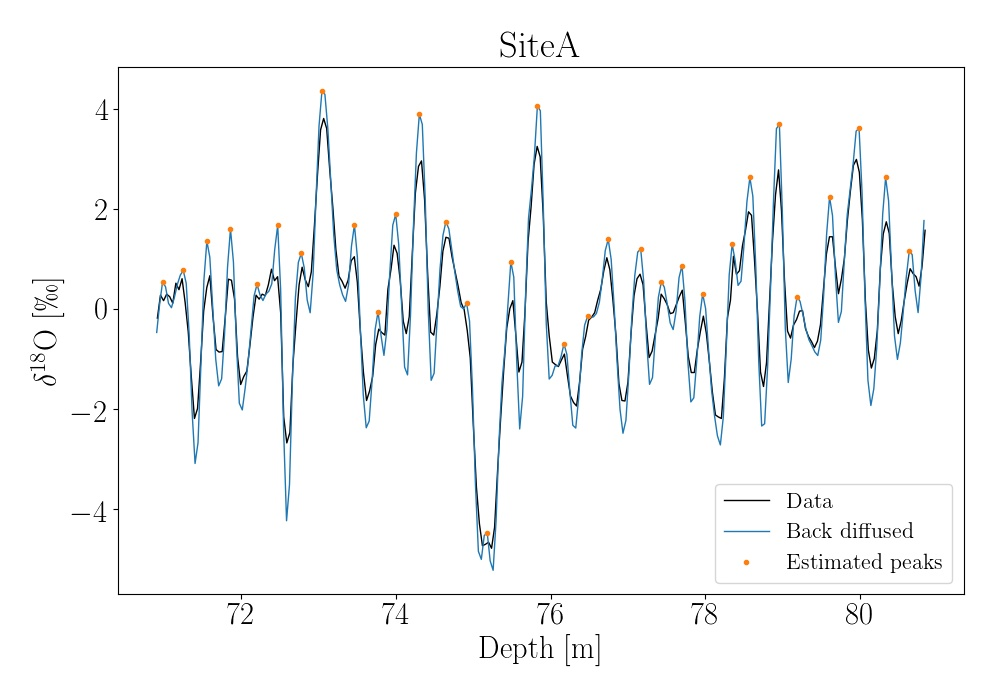
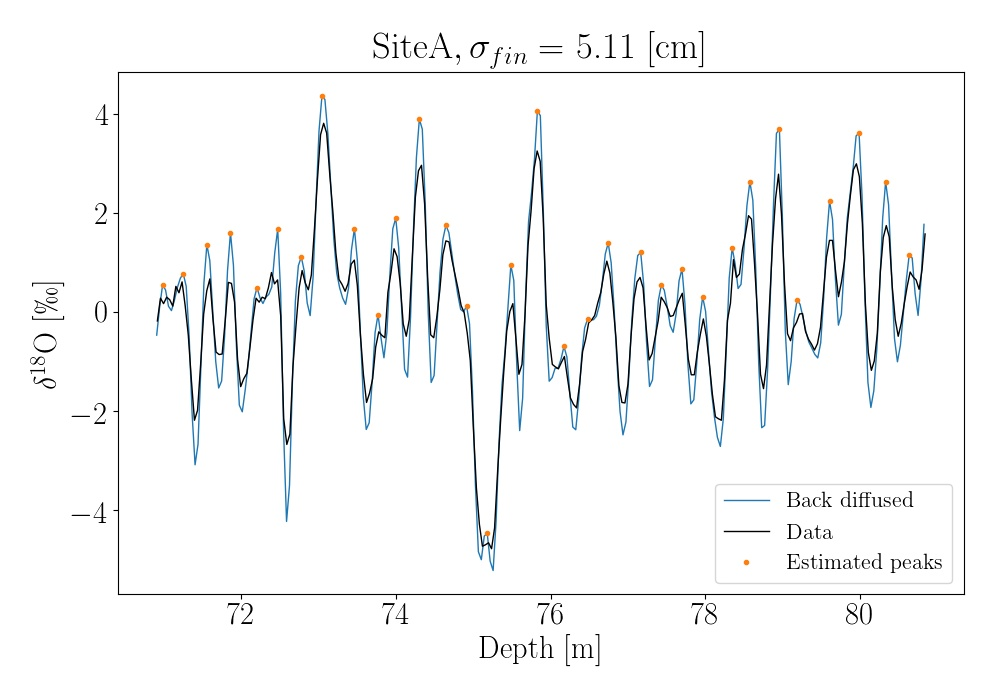
Updated LT peak figures.

diff --git a/BackDiffuse_LT.py b/BackDiffuse_LT.py
@@ -406,66 +406,66 @@ class BackDiffuse():
 
 
 
-#
-# mpl.rcParams['text.usetex'] = True
-# mpl.rcParams['text.latex.preamble'] = [
-#     r'\usepackage{textcomp}',
-#     r'\usepackage{wasysym}']
-# mpl.rcParams['mathtext.fontset'] = 'stix'
-# mpl.rcParams['font.size'] = 22
-# mpl.rcParams['font.family'] = 'STIXGeneral'
-#
-#
-#     # Core names of cores available
-# coreNames = ['Crete', 'SiteA', 'SiteB', 'SiteD', 'SiteE', 'SiteG']
-#
-#     # Selecting core name
-# coreName = 'Crete'
-#
-#     # Reading datafiles for specific core
-# d18OData = pd.read_csv('/home/thea/Documents/KUFysik/MesterTesen/Data/datasets/Alphabet_cores/Alphabetd18O/'+coreName+'_det.txt',',')
-# densities = pd.read_csv('/home/thea/Documents/KUFysik/MesterTesen/Data/datasets/Alphabet_cores/AlphabetDens/'+coreName+'DepthDens_w_Models.txt','\t')
-# diffLens = pd.read_csv('/home/thea/Documents/KUFysik/MesterTesen/Data/datasets/Alphabet_cores/AlphabetDiff/'+coreName+'_DepthDiff.txt','\t')
-# specsCores = pd.read_csv('/home/thea/Documents/KUFysik/MesterTesen/Data/CoreSpecs.txt',',')
-# specIdx = specsCores['CoreName'][specsCores['CoreName'] == coreName].index[0]
-#
-#     # Set the specs for depth of Laki and Tambora eruptions for core
-# specsCore = specsCores.iloc[specIdx]
-# dTamb = np.float64(specsCore['dTamb'])
-# dLaki = np.float64(specsCore['dLaki'])
-#
-#     # (FOR PLOTTING) Make array of only d18O data between Laki and Tamb
-# depth_LT = d18OData['depth'][(d18OData['depth'] >= dTamb) & (d18OData['depth'] <= dLaki)]
-# d18O_LT = d18OData['d18O'][(d18OData['depth'] >= dTamb) & (d18OData['depth'] <= dLaki)]
-#
-#     # Create instance of back diffusion
-# inst = BackDiffuse(coreName, d18OData, specsCores, dTamb, dLaki, 32, diffLenData=diffLens[['Depth','sigma_o18']], densData=densities)
-#
-#     # Make spectral estimate of diff len
-# diffLen = inst.spectralEstimate()
-#
-#     # Make model/empiric estimate of diff len
-# difflenEstHL = inst.diffLenEstimateHL()
-#
-#     # Compute final depth/d18O back diffused data w. final diff len and No. peaks
-# depth, data, diffLen, peaks = inst.backDiffused()
-#
-#     # Plot original data, back diffused data and peak estimations
-# fig, ax = plt.subplots(figsize=(10,7))
-# ax.plot(depth_LT, d18O_LT-np.mean(d18O_LT),color='k', lw=1, label = 'Data')
-# ax.plot(depth, data, lw=1, label='Back diffused')
-# ax.plot(depth[peaks], data[peaks],'.',lw=1, label='Estimated peaks')
-# ax.set(xlabel = 'Depth [m]', ylabel = '$\delta^{18}$O [\permil]', title=coreName)
-# ax.legend(fontsize=16)
-# fig.tight_layout()
-# fig.savefig(coreName + '_peaks.jpg')
-#
-#
-#     # Compute temperature estimate in [K]
-# depthT, dataT = inst.DeltaToTemp()
-#
-#     # Plot Temperature data in [C]
-# fig2, ax2 = plt.subplots(figsize=(10,7))
-# ax2.plot(depthT, dataT-273.15,color='k', lw=1)
-# ax2.set(xlabel = 'Depth [m]', ylabel = 'Temperature [C]', title=coreName)
-# fig2.savefig(coreName + '_Temp.jpg')
+
+mpl.rcParams['text.usetex'] = True
+mpl.rcParams['text.latex.preamble'] = [
+    r'\usepackage{textcomp}',
+    r'\usepackage{wasysym}']
+mpl.rcParams['mathtext.fontset'] = 'stix'
+mpl.rcParams['font.size'] = 22
+mpl.rcParams['font.family'] = 'STIXGeneral'
+
+
+    # Core names of cores available
+coreNames = ['Crete', 'SiteA', 'SiteB', 'SiteD', 'SiteE', 'SiteG']
+
+    # Selecting core name
+coreName = 'SiteG'
+
+    # Reading datafiles for specific core
+d18OData = pd.read_csv('/home/thea/Documents/KUFysik/MesterTesen/Data/datasets/Alphabet_cores/Alphabetd18O/'+coreName+'_det.txt',',')
+densities = pd.read_csv('/home/thea/Documents/KUFysik/MesterTesen/Data/datasets/Alphabet_cores/AlphabetDens/'+coreName+'DepthDens_w_Models.txt','\t')
+diffLens = pd.read_csv('/home/thea/Documents/KUFysik/MesterTesen/Data/datasets/Alphabet_cores/AlphabetDiff/'+coreName+'_DepthDiff.txt','\t')
+specsCores = pd.read_csv('/home/thea/Documents/KUFysik/MesterTesen/Data/CoreSpecs.txt',',')
+specIdx = specsCores['CoreName'][specsCores['CoreName'] == coreName].index[0]
+
+    # Set the specs for depth of Laki and Tambora eruptions for core
+specsCore = specsCores.iloc[specIdx]
+dTamb = np.float64(specsCore['dTamb'])
+dLaki = np.float64(specsCore['dLaki'])
+
+    # (FOR PLOTTING) Make array of only d18O data between Laki and Tamb
+depth_LT = d18OData['depth'][(d18OData['depth'] >= dTamb) & (d18OData['depth'] <= dLaki)]
+d18O_LT = d18OData['d18O'][(d18OData['depth'] >= dTamb) & (d18OData['depth'] <= dLaki)]
+
+    # Create instance of back diffusion
+inst = BackDiffuse(coreName, d18OData, specsCores, dTamb, dLaki, 32, diffLenData=diffLens[['Depth','sigma_o18']], densData=densities)
+
+    # Make spectral estimate of diff len
+diffLen = inst.spectralEstimate()
+
+    # Make model/empiric estimate of diff len
+difflenEstHL = inst.diffLenEstimateHL()
+
+    # Compute final depth/d18O back diffused data w. final diff len and No. peaks
+depth, data, diffLen, peaks = inst.backDiffused()
+
+    # Plot original data, back diffused data and peak estimations
+fig, ax = plt.subplots(figsize=(10,7))
+ax.plot(depth, data, lw=1, label='Back diffused')
+ax.plot(depth_LT, d18O_LT-np.mean(d18O_LT),color='k', lw=1, label = 'Data')
+ax.plot(depth[peaks], data[peaks],'.',lw=1, label='Estimated peaks')
+ax.set(xlabel = 'Depth [m]', ylabel = '$\delta^{18}$O [\permil]', title=coreName+'$, \sigma_{fin} =$ ' + f'{diffLen*100:.2f} [cm]')
+ax.legend(fontsize=16)
+fig.tight_layout()
+fig.savefig(coreName + '_peaks.jpg')
+
+
+    # Compute temperature estimate in [K]
+depthT, dataT = inst.DeltaToTemp()
+
+    # Plot Temperature data in [C]
+fig2, ax2 = plt.subplots(figsize=(10,7))
+ax2.plot(depthT, dataT-273.15,color='k', lw=1)
+ax2.set(xlabel = 'Depth [m]', ylabel = 'Temperature [C]', title=coreName)
+fig2.savefig(coreName + '_Temp.jpg')
